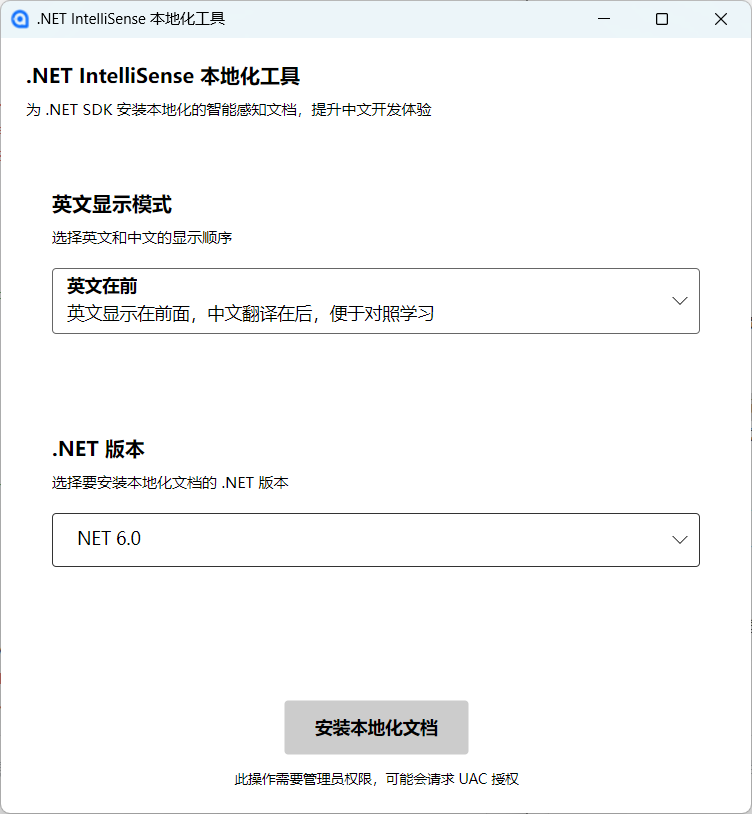
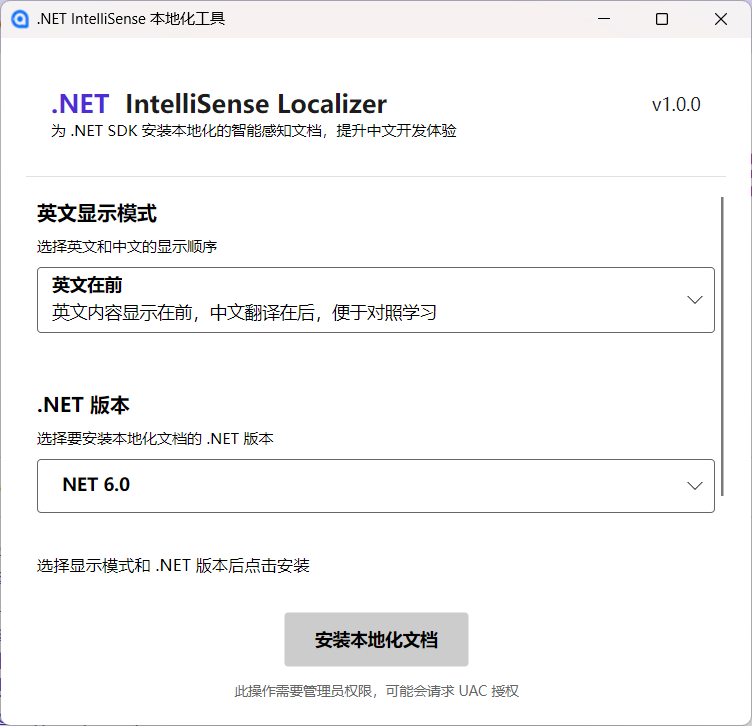
UI: 更新UI

diff --git a/src/IntelliSenseLocalizer.App/ViewModels/MainWindowViewModel.cs b/src/IntelliSenseLocalizer.App/ViewModels/MainWindowViewModel.cs
@@ -1,4 +1,5 @@
 using System.Diagnostics;
+using System.Reflection;
 using System.Text;
 using CommunityToolkit.Mvvm.ComponentModel;
 using CommunityToolkit.Mvvm.Input;
@@ -24,7 +25,7 @@ public partial class MainWindowViewModel : ObservableObject
 
             using var proc = new Process();
             proc.StartInfo = CreateProcessStartInfo();
-            
+
             var outputBuilder = new StringBuilder();
             var errorBuilder = new StringBuilder();
 
@@ -34,7 +35,7 @@ public partial class MainWindowViewModel : ObservableObject
                 {
                     outputBuilder.AppendLine(e.Data);
                     Debug.WriteLine($"Output: {e.Data}");
-                    
+
                     // 更新状态信息
                     if (e.Data.Contains("Download") || e.Data.Contains("download"))
                     {
@@ -112,10 +113,10 @@ public partial class MainWindowViewModel : ObservableObject
         start.RedirectStandardError = true;
         start.StandardOutputEncoding = Encoding.UTF8;
         start.StandardErrorEncoding = Encoding.UTF8;
-        
+
         var command = $"dotnet tool install -g islocalizer --version 1.2.4 && " +
                      $"islocalizer install auto -m net{DotnetVersion} -l zh-cn -cc {EnumHelpers.GetEnumMemberName(ContentCompareType.Mode)}";
-        
+
         start.Arguments = $"/C {command}";
 
         return start;
@@ -134,4 +135,12 @@ public partial class MainWindowViewModel : ObservableObject
     private string _statusMessage = "准备就绪";
 
     public bool HasStatusMessage => !string.IsNullOrEmpty(StatusMessage);
+
+
+    public static string Version => s_version.Value;
+    private static readonly Lazy<string> s_version = new Lazy<string>(() =>
+    {
+        var version = Assembly.GetEntryAssembly()?.GetName().Version;
+        return $"v{version?.Major}.{version?.Minor}.{version?.Build}";
+    });
 }

diff --git a/src/IntelliSenseLocalizer.App/README.md b/src/IntelliSenseLocalizer.App/README.md
@@ -1,0 +1,23 @@
+# VS .NET IntelliSense 中英文生成下载器 | a tool for generate .net Localized IntelliSense
+
+## 简介
+`.NET6`之后，智能感知[.NET IntelliSense files](https://dotnet.microsoft.com/en-us/download/intellisense)文件微软[不再发布](https://github.com/dotnet/docs/issues/27283#issuecomment-985736340)。
+
+但是，[微软在线文档](https://docs.microsoft.com)仍有本地化翻译。我们可以爬下来网页上的文字，自行生成
+.NET IntelliSense files文件。
+
+# 使用方法
+
+## 1. 简体中文用户
+简中翻译包[@stratosblue](https://github.com/stratosblue)同学已经[爬取好了](https://www.nuget.org/packages/IntelliSenseLocalizer.LanguagePack#versions-body-tab)，可以运行本程序直接更新。
+
+<img src=".\src\IntelliSenseLocalizer.App\Assets\IntellisenseApp-preview.png" style="border-radius:4px" alt="界面">
+
+然后，就可以快捷编码啦！
+<img src=".\src\IntelliSenseLocalizer.App\Assets\KeepEnglishAfter.png" style="border-radius:4px" alt="界面">
+
+
+
+## 2. 其他用户（自行构建、非简体中文用户）
+请参考[How to use脚本说明](https://github.com/stratosblue/IntelliSenseLocalizer/blob/main/README.md#how-to-use)，运行爬取程序、更新。
+
